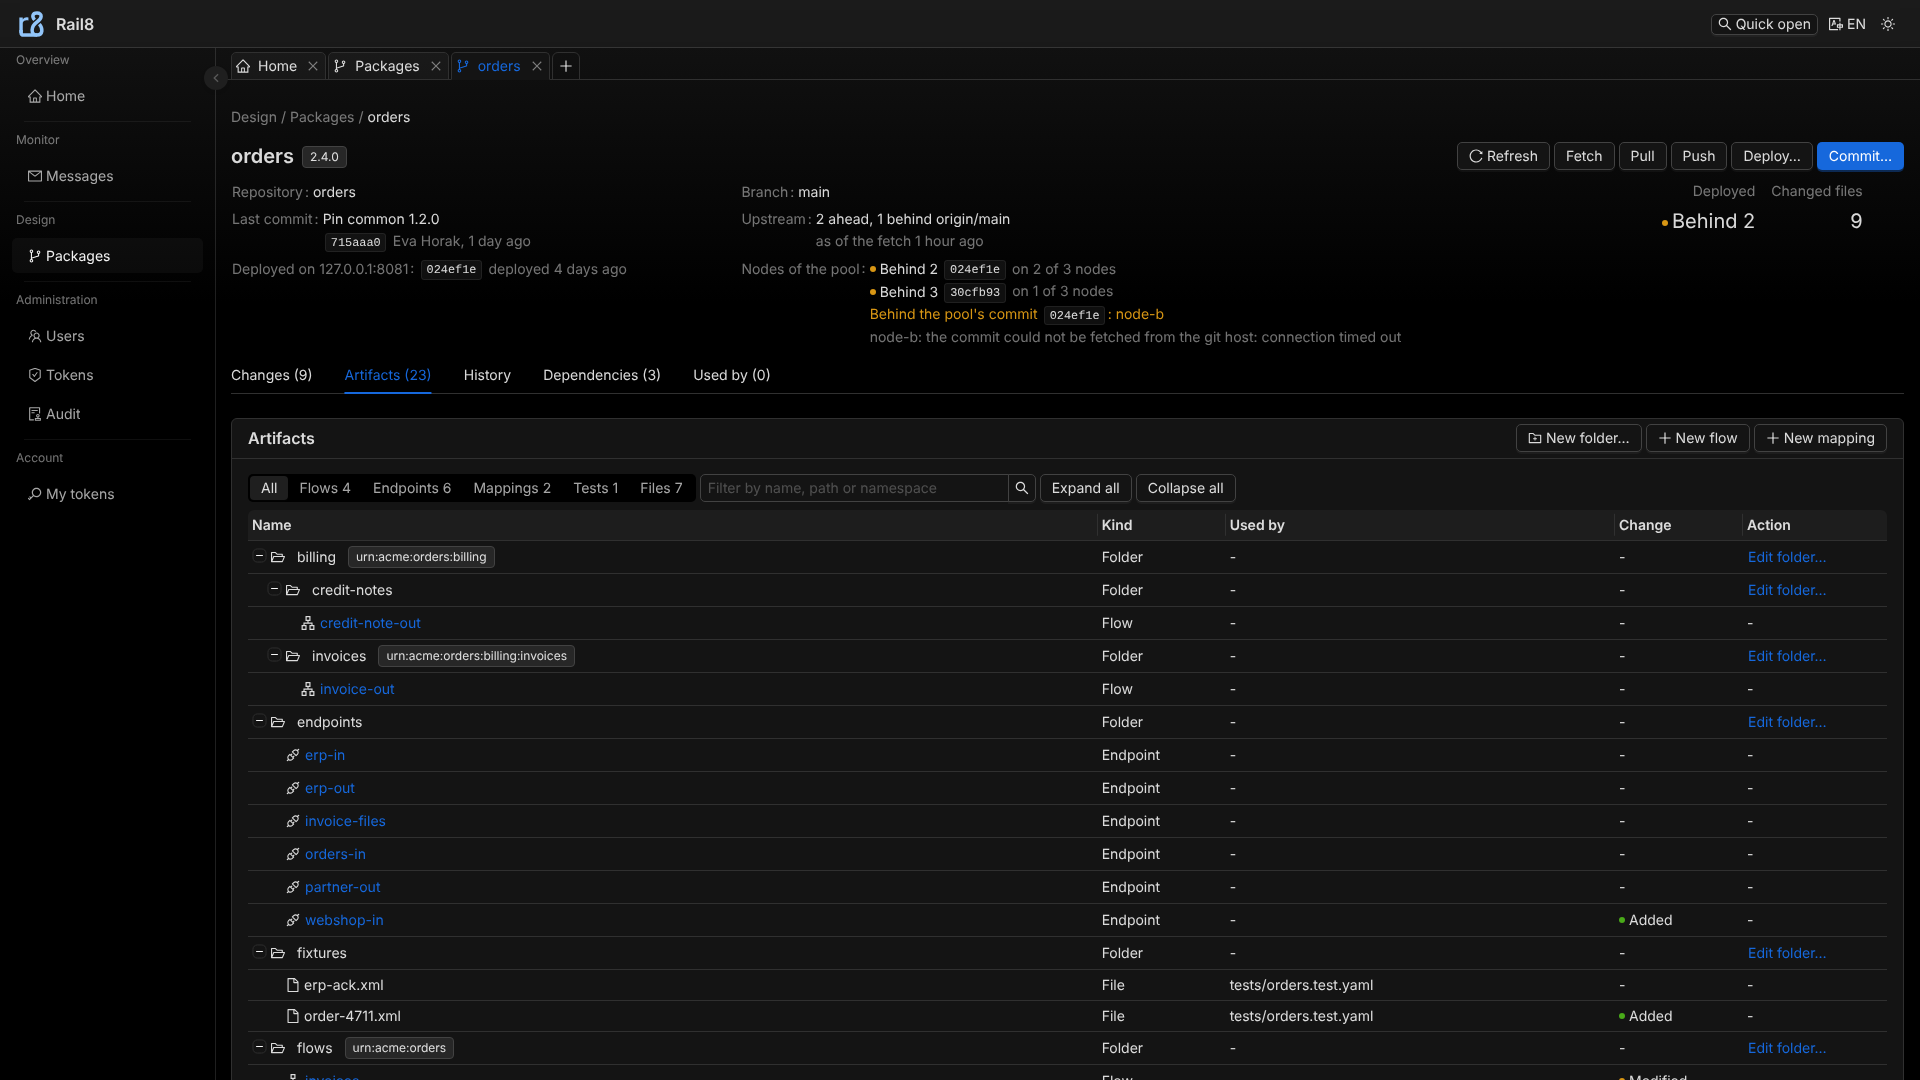
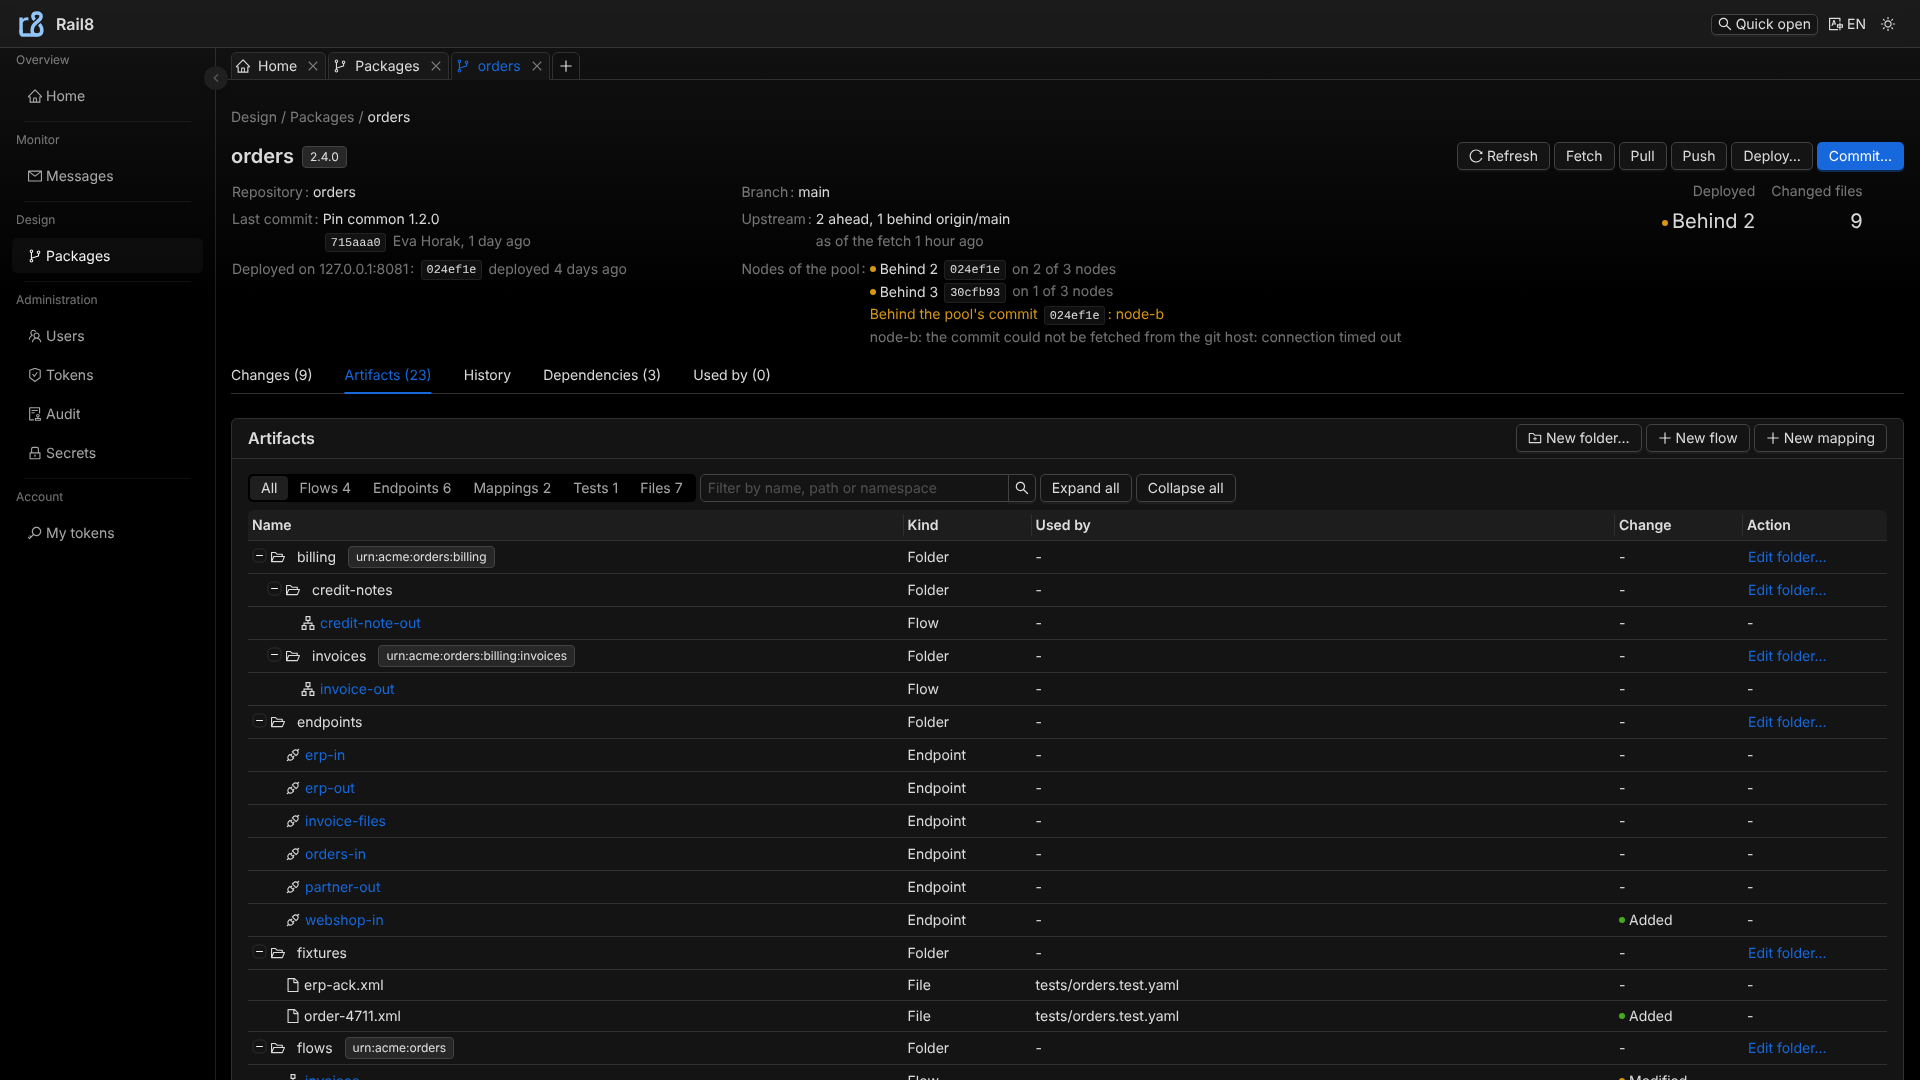
The tree's Name column keeps each row on one line, and Used by wraps
When the Used by column held long paths, the table squeezed the Name column:
a long file name lost its indent and a folder with a namespace broke into
three lines. The Name column now has a width of its own, keeps each row on one
line and cuts a name that is still too long, and Used by wraps its paths.

Claude-Session: https://claude.ai/code/session_018sN5AX2rDed4XkkSR8dqhR

diff --git a/ui/src/packages/Artifacts.browser.test.tsx b/ui/src/packages/Artifacts.browser.test.tsx
@@ -250,6 +250,32 @@ describe('the artifacts of the demo package', () => {
     await expect.element(line('person.schema.json')).toMatchTextContent(/greeting\/mappings\/greeting\.mapping\.json/);
     await expect.element(line('notes.md')).toMatchTextContent(/^notes\.mdFile-/);
   });
+
+  test('keep in every filter each row on one line: a long name in a nested folder keeps its indent, a folder with a namespace its toggle, name and namespace', async () => {
+    const long = 'a-folder-whose-name-is-longer-than-any-name-column-could-hold-at-this-width-of-the-screen';
+    const longFile = 'a-structure-whose-name-is-longer-than-any-name-column-could-hold-at-this-width.xsd';
+    render({ clones: [{ ...DEMO.clones![0]!, files: { ...DEMO.clones![0]!.files, [`docs/${long}/folder.yaml`]: 'schemaVersion: 1\nkind: folder\nnamespace: urn:rail8:demo:long\n', [`docs/${long}/${longFile}`]: '<xs:schema/>\n' } }] });
+    await openArtifacts('demo');
+    const box = (locator: { element: () => Element }) => locator.element().getBoundingClientRect();
+    const middle = (locator: { element: () => Element }) => box(locator).top + box(locator).height / 2;
+    const name = (text: string) => tree().getByText(text, { exact: true });
+    const namespaced = tree().getByRole('row').filter({ has: page.getByLabelText('Namespace urn:rail8:demo:greeting') });
+    for (const filter of ['All', /^Files \d+$/]) {
+      await page.getByRole('radiogroup', { name: 'Kinds shown' }).getByText(filter).click();
+      await expect.element(name('invoice-to-partner.xsl')).toBeVisible();
+      expect(box(name('invoice-to-partner.xsl')).left).toBeCloseTo(box(name('invoice.xsd')).left, 0);
+      expect(box(name('person.schema.json')).left).toBeCloseTo(box(name('greeting.xsd')).left, 0);
+      expect(box(name('person.schema.json')).left).toBeGreaterThan(box(tree().getByRole('button', { name: 'systems', exact: true })).left);
+      const toggle = namespaced.getByRole('button', { name: /expand|collapse/i });
+      for (const part of [namespaced.getByRole('button', { name: 'greeting', exact: true }), namespaced.getByLabelText('Namespace urn:rail8:demo:greeting')]) {
+        expect(Math.abs(middle(part) - middle(toggle))).toBeLessThan(6);
+      }
+      const longRow = tree().getByRole('row').filter({ has: page.getByLabelText('Namespace urn:rail8:demo:long') });
+      expect(Math.abs(middle(longRow.getByRole('button', { name: long, exact: true })) - middle(longRow.getByRole('button', { name: /expand|collapse/i })))).toBeLessThan(6);
+      expect(box(name(longFile)).left).toBeGreaterThan(box(longRow.getByRole('button', { name: long, exact: true })).left);
+      expect(box(name(longFile)).height).toBeLessThan(box(name('notes.md')).height * 1.5);
+    }
+  });
 });
 
 describe('a folder that is no package', () => {

diff --git a/ui/src/packages/ArtifactTree.tsx b/ui/src/packages/ArtifactTree.tsx
@@ -158,7 +158,7 @@ export function ArtifactTree({ artifacts, folder, writable, open, onCreated, cre
     }
     const problems = row.problems.map((p) => refusedIn(texts, p));
     return (
-      <Space size="small" wrap>
+      <Space size="small">
         {expanded.includes(row.key) ? <FolderOpenOutlined aria-hidden /> : <FolderOutlined aria-hidden />}
         <Button type="text" size="small" aria-pressed={chosen === row.key} onClick={() => setChosen(chosen === row.key ? null : row.key)}>
           {row.name}
@@ -221,10 +221,18 @@ export function ArtifactTree({ artifacts, folder, writable, open, onCreated, cre
               onExpand: (open, row) => !filtering && toggle(row.key, open),
             }}
             columns={[
-              { title: t('packages.name'), key: 'name', render: (_, row) => nameOfRow(row) },
+              { title: t('packages.name'), key: 'name', width: used ? '40%' : undefined, ellipsis: { showTitle: false }, render: (_, row) => nameOfRow(row) },
               { title: t('packages.kind'), key: 'kind', width: 128, render: (_, row) => (row.type === 'folder' ? t('packages.tree.folder') : say(texts, KIND[row.artifact.kind])) },
               ...(used
-                ? [{ title: t('packages.usedBy'), key: 'usedBy', render: (_: unknown, row: Row) => (row.type === 'artifact' ? (row.artifact.usedBy ?? []).map((p) => p.slice(p.indexOf('/') + 1)).join(', ') || '-' : '-') }]
+                ? [
+                    {
+                      title: t('packages.usedBy'),
+                      key: 'usedBy',
+                      render: (_: unknown, row: Row) => (
+                        <span style={{ overflowWrap: 'anywhere' }}>{row.type === 'artifact' ? (row.artifact.usedBy ?? []).map((p) => p.slice(p.indexOf('/') + 1)).join(', ') || '-' : '-'}</span>
+                      ),
+                    },
+                  ]
                 : []),
               {
                 title: t('packages.change'),
